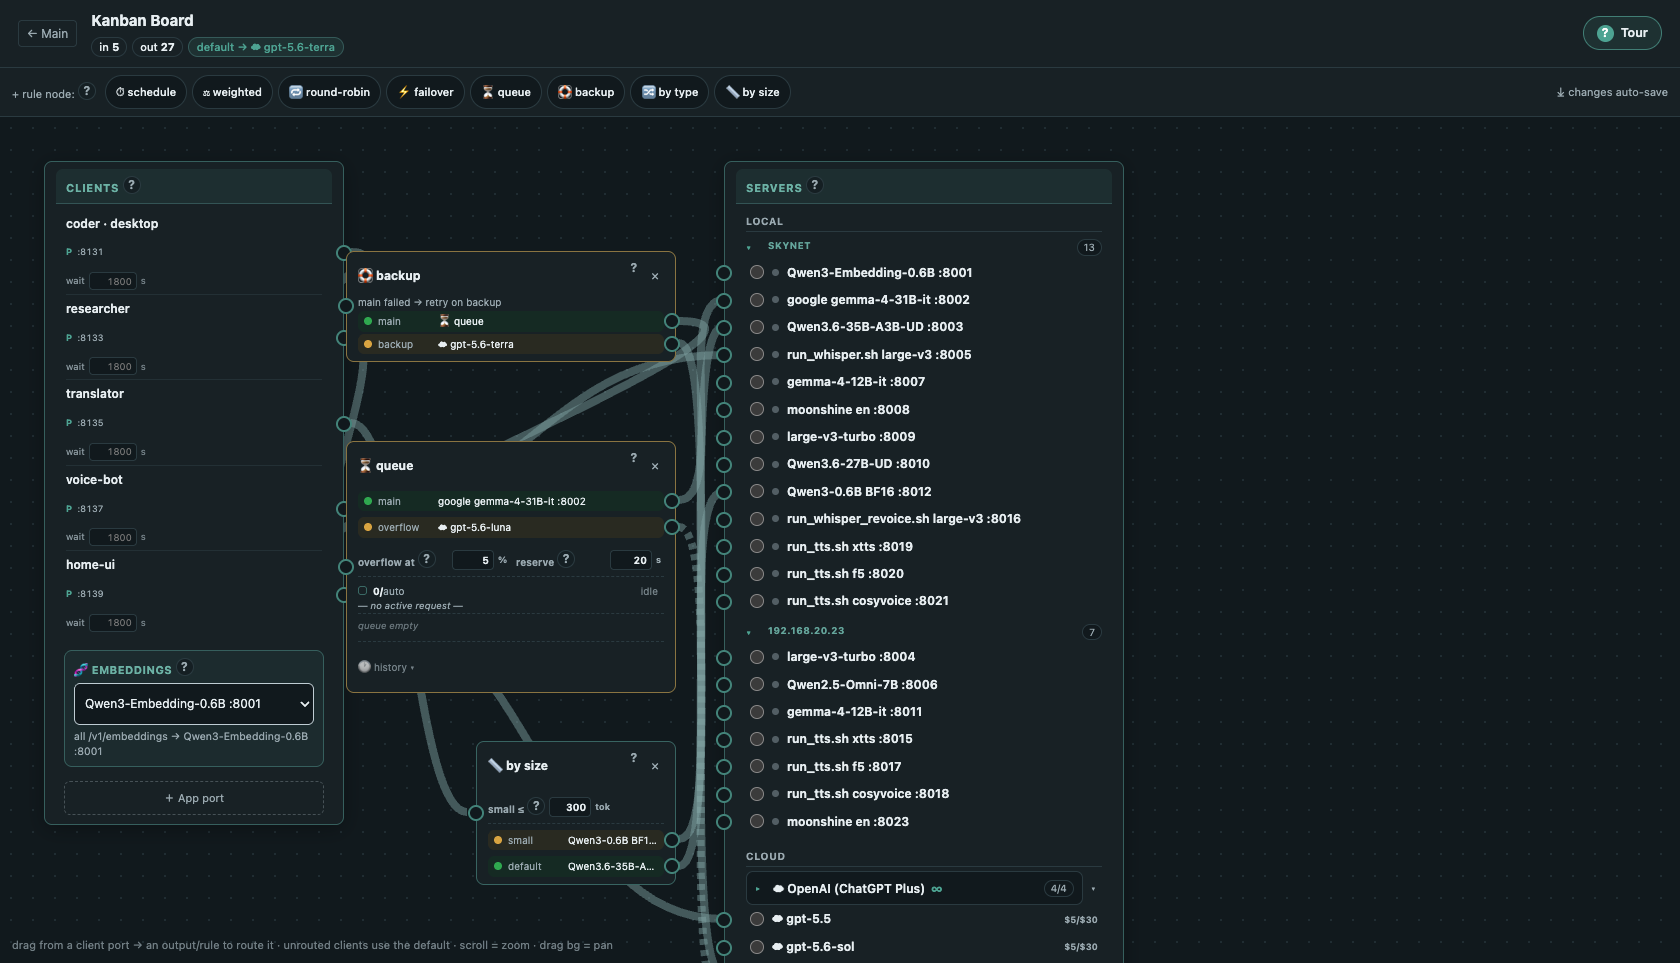
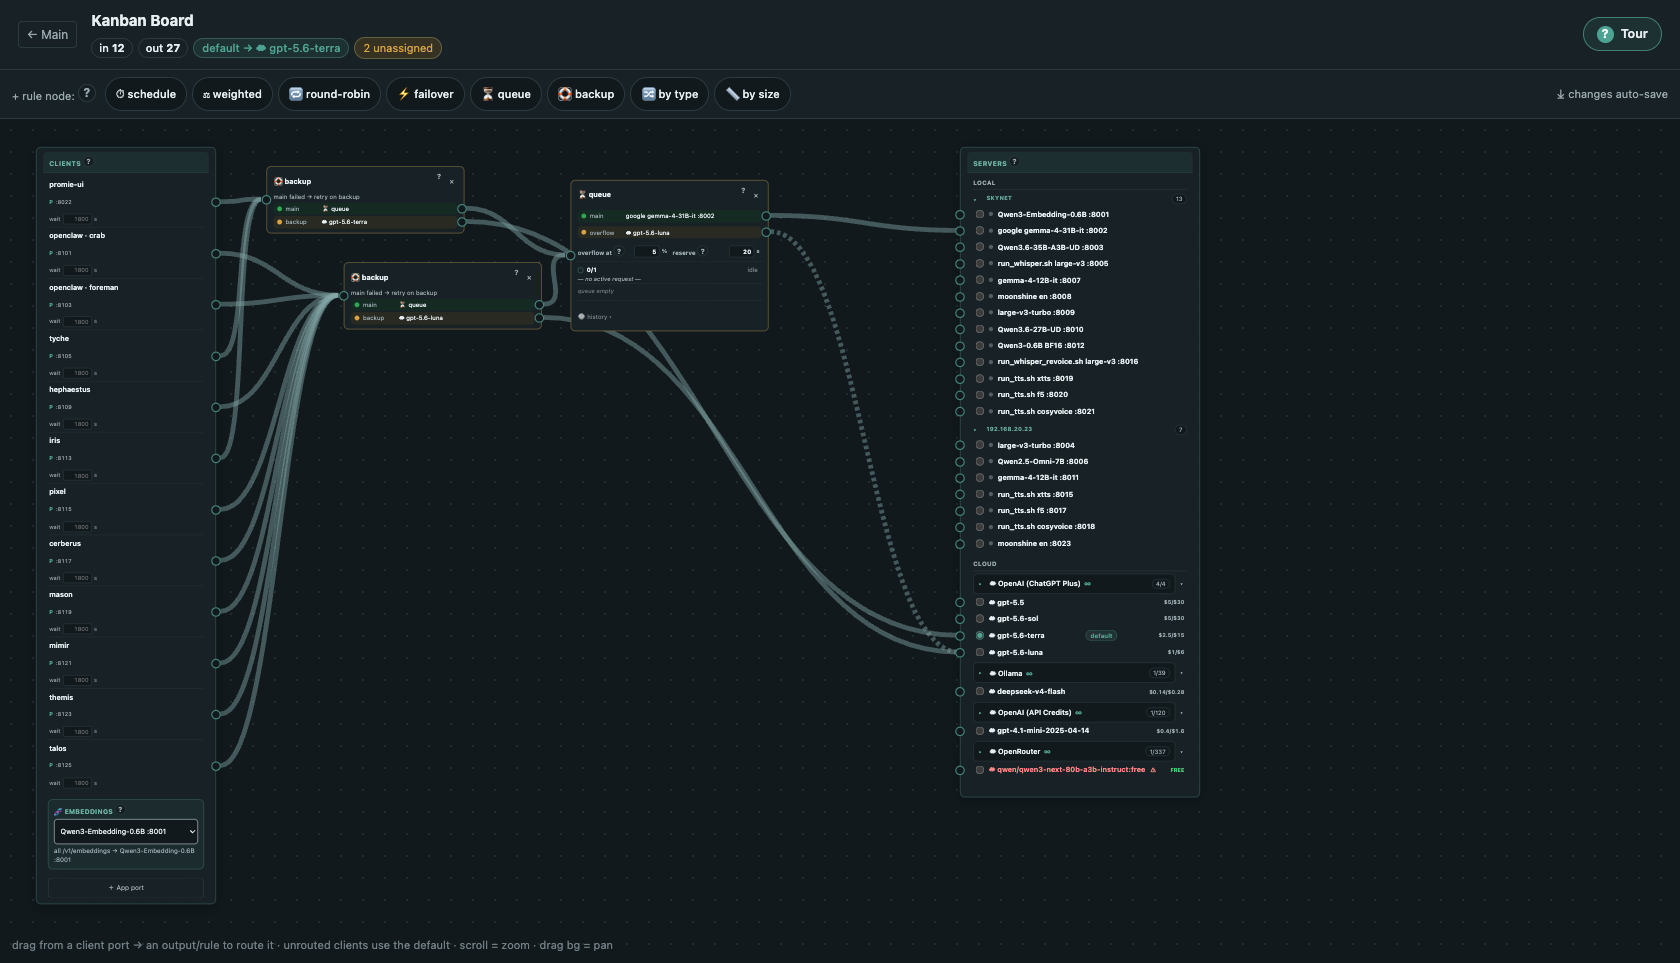
docs: kanban screenshot is the real fleet, zoomed to fit
With the smooth curves the real twelve-agent fleet reads well zoomed out — and
it is honest. Caption updated to match.

diff --git a/README.md b/README.md
@@ -148,10 +148,11 @@ border comet as its card on the board:
 
 ![Cell editor](docs/screenshots/editor.png)
 
-The routing kanban — a compact example fleet: agents on the left, rule nodes
-(backup / queue / by-size — schedule, weighted, round-robin, failover and
-by-type are one click away in the palette) in the middle, local cells and cloud
-models as outputs:
+The routing kanban — the development fleet, live: twelve agents on the left,
+backup and queue rule nodes in the middle (schedule, weighted, round-robin,
+failover, by-type and by-size are one click away in the palette), local cells
+and cloud models as outputs. The dashed run is the queue's overflow spilling to
+a cloud model:
 
 ![Routing kanban](docs/screenshots/kanban.png)
 